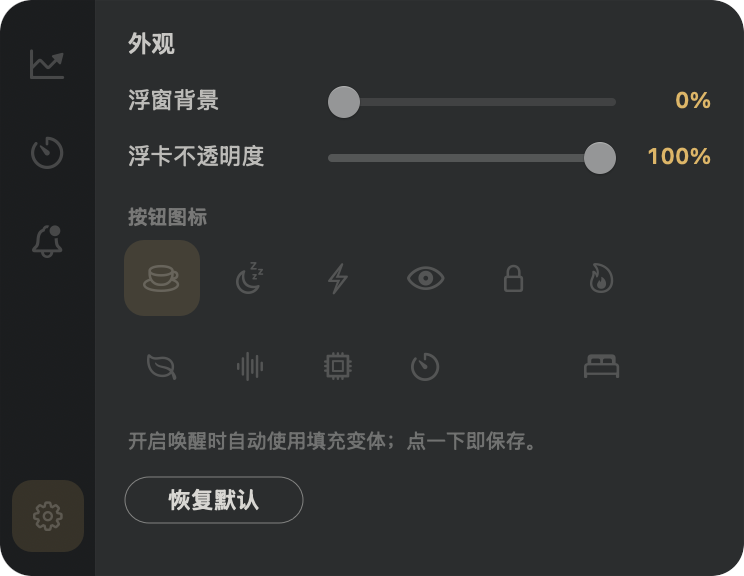
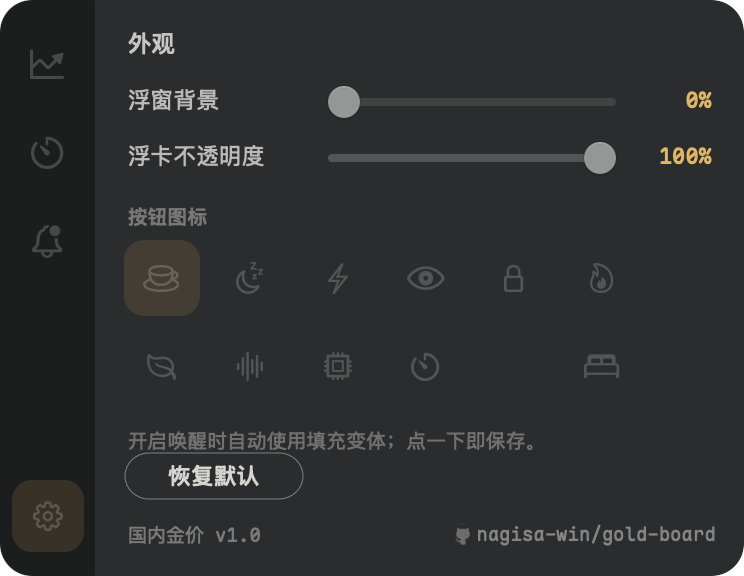
appearance: 页脚显示版本号与 GitHub 仓库入口
- 设置页底部左侧显示 CFBundleShortVersionString，右侧是 GitHub 标记 + 仓库名，点击打开浏览器
- 打包时把 Resources 目录带进 app bundle，图标随包分发，缺失时退化为外链符号

diff --git a/src/ui/AppearancePage.swift b/src/ui/AppearancePage.swift
@@ -8,6 +8,8 @@ final class AppearancePage: NSView {
     private let iconSection = sectionLabel("按钮图标")
     private let hint = NSTextField(labelWithString: "开启唤醒时自动使用填充变体；点一下即保存。")
     private let reset = PillButton(title: "恢复默认", tint: Tokens.muted(0.6), filled: false)
+    private let footer = NSTextField(labelWithString: "")
+    private let repo = RepoLinkView()
     private var iconButtons: [IconButton] = []
 
     private let symbols = [
@@ -51,7 +53,13 @@ final class AppearancePage: NSView {
             self?.refresh()
         }
 
-        [title, capsuleRow, cardRow, iconSection, hint, reset].forEach(addSubview)
+        // 页脚：左侧版本号，右侧 GitHub 仓库入口
+        let short = Bundle.main.infoDictionary?["CFBundleShortVersionString"] as? String ?? "dev"
+        footer.stringValue = "国内金价 v\(short)"
+        footer.font = Tokens.number(9.5, .regular)
+        footer.textColor = Tokens.muted(0.4)
+
+        [title, capsuleRow, cardRow, iconSection, hint, reset, footer, repo].forEach(addSubview)
     }
 
     required init?(coder: NSCoder) { fatalError("unsupported") }
@@ -73,7 +81,9 @@ final class AppearancePage: NSView {
                                   width: cell, height: cell)
         }
         hint.frame = NSRect(x: 0, y: 200, width: bounds.width, height: 14)
-        reset.frame = NSRect(x: 0, y: 224, width: 90, height: 24)
+        reset.frame = NSRect(x: 0, y: 212, width: 90, height: 24)
+        footer.frame = NSRect(x: 0, y: bounds.height - 13, width: 120, height: 12)
+        repo.frame = NSRect(x: bounds.width - 132, y: bounds.height - 13, width: 132, height: 12)
     }
 
     func refresh() {
@@ -83,5 +93,58 @@ final class AppearancePage: NSView {
         for button in iconButtons {
             button.isSelected = button.symbol == settings.buttonSymbol
         }
+    }
+}
+
+
+/** 页脚的仓库入口：GitHub 图标 + 仓库名，点击跳转浏览器。 */
+final class RepoLinkView: NSView {
+    private let url = URL(string: "https://github.com/nagisa-win/gold-board")!
+    private let text = "nagisa-win/gold-board"
+    private var hovering = false
+
+    override func updateTrackingAreas() {
+        super.updateTrackingAreas()
+        for area in trackingAreas { removeTrackingArea(area) }
+        addTrackingArea(NSTrackingArea(rect: bounds,
+                                       options: [.mouseEnteredAndExited, .activeAlways, .inVisibleRect],
+                                       owner: self, userInfo: nil))
+    }
+
+    override func mouseEntered(with event: NSEvent) { hovering = true; needsDisplay = true }
+    override func mouseExited(with event: NSEvent) { hovering = false; needsDisplay = true }
+    override func mouseDown(with event: NSEvent) {}
+    override func mouseUp(with event: NSEvent) { NSWorkspace.shared.open(url) }
+
+    override func draw(_ dirtyRect: NSRect) {
+        let color = hovering ? Tokens.gold : Tokens.muted(0.45)
+
+        // 图标优先用打包的 GitHub 标记，取不到就退化成外链符号。
+        if let path = Bundle.main.path(forResource: "github-mark", ofType: "png"),
+           let image = NSImage(contentsOfFile: path) {
+            image.isTemplate = true
+            let size: CGFloat = 11
+            let tinted = NSImage(size: NSSize(width: size, height: size), flipped: false) { rect in
+                image.draw(in: rect)
+                color.set()
+                rect.fill(using: .sourceAtop)
+                return true
+            }
+            tinted.draw(in: NSRect(x: bounds.width - 132, y: (bounds.height - size) / 2,
+                                   width: size, height: size))
+        } else if let fallback = symbolImage("arrow.up.right.square", size: 10, color: color) {
+            let size = fallback.size
+            fallback.draw(in: NSRect(x: bounds.width - 132, y: (bounds.height - size.height) / 2,
+                                     width: size.width, height: size.height))
+        }
+
+        let attrs: [NSAttributedString.Key: Any] = [
+            .font: Tokens.number(9.5, .regular),
+            .foregroundColor: color,
+        ]
+        let size = (text as NSString).size(withAttributes: attrs)
+        (text as NSString).draw(at: NSPoint(x: bounds.width - size.width,
+                                            y: (bounds.height - size.height) / 2),
+                                withAttributes: attrs)
     }
 }
